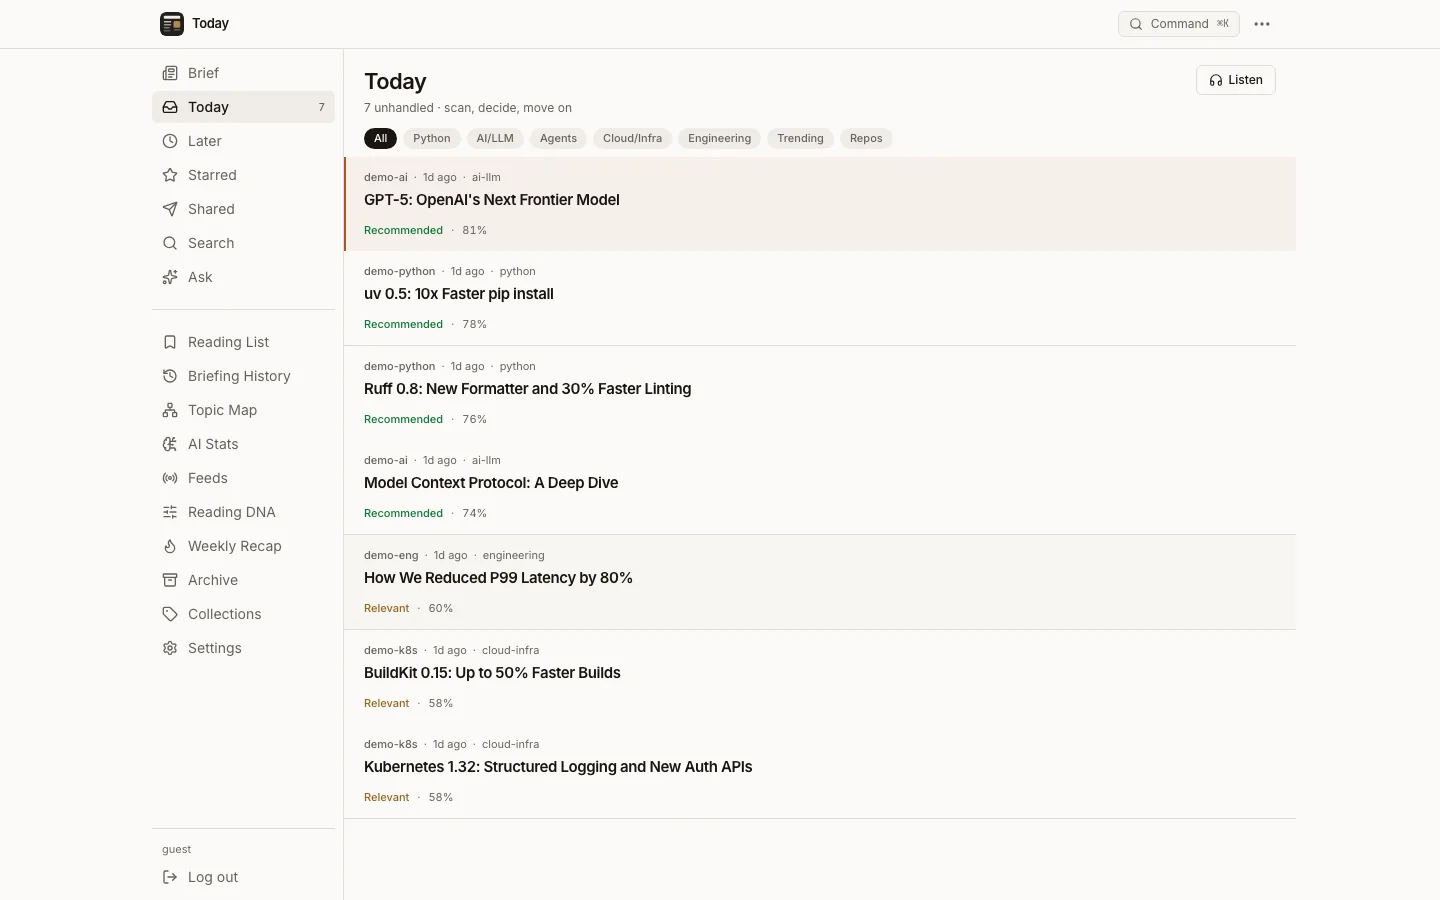
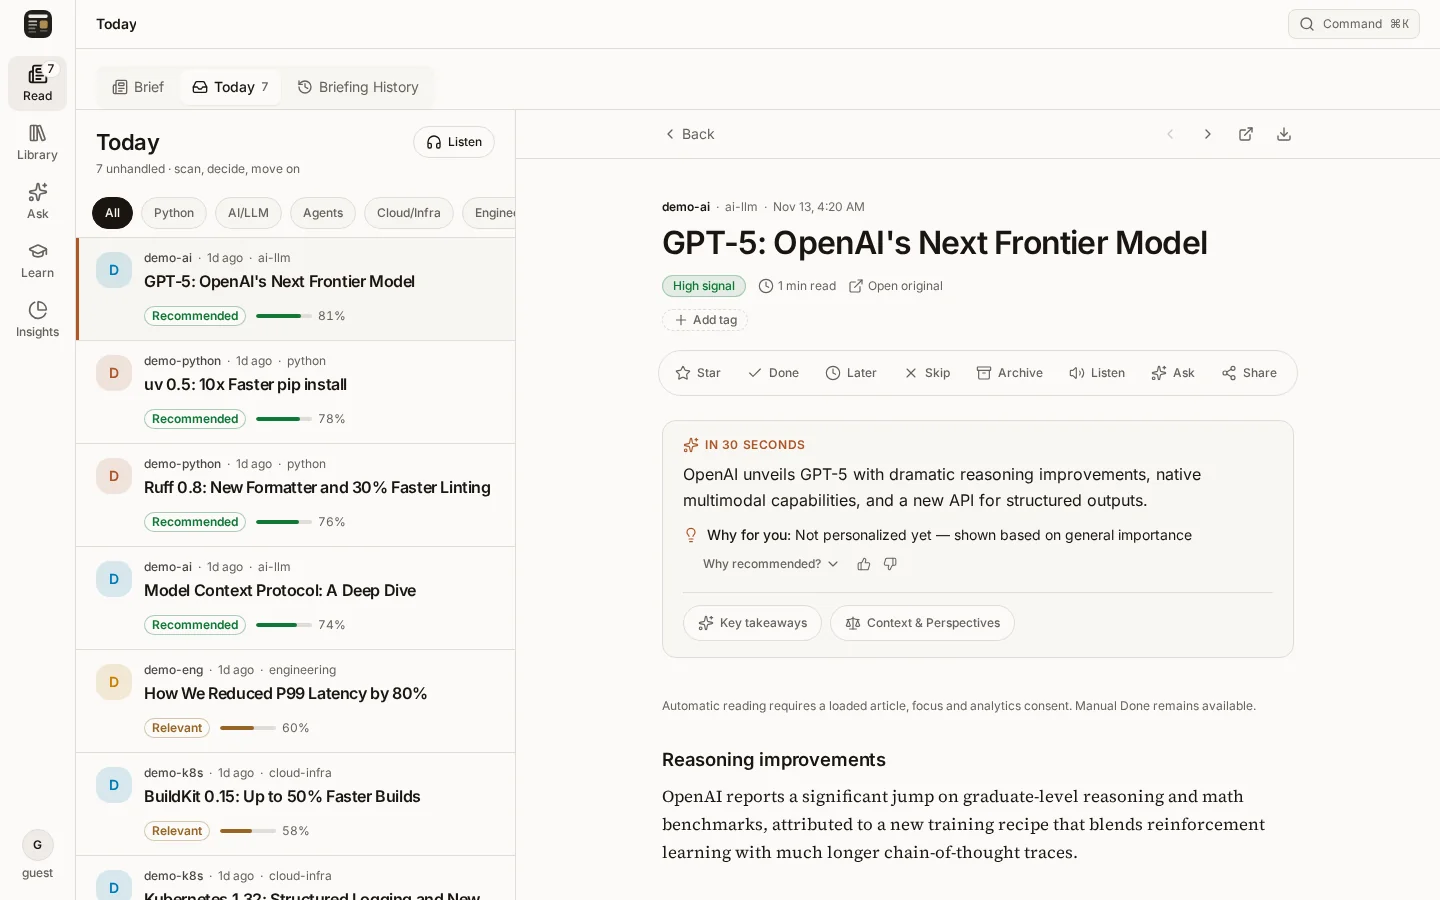
docs: refresh product screenshots (#1670)

diff --git a/scripts/capture-screenshots.spec.ts b/scripts/capture-screenshots.spec.ts
@@ -59,8 +59,10 @@ test('capture product screenshots', async ({ page }) => {
   // 1. Today feed — the primary triage view, used as the README hero shot.
   await page.goto('/today');
   await page.waitForLoadState('networkidle');
-  const firstArticleLink = page.locator('a[href^="/a/"]').first();
+  const firstArticleLink = page.locator('a[href^="/today?a="]').first();
   await expect(firstArticleLink).toBeVisible();
+  await firstArticleLink.click();
+  await expect(page.getByTestId('summary-card')).toBeVisible();
   await page.screenshot({ path: path.join(OUT_DIR, 'today-feed.png') });
 
   // 2. Article intelligence — open the seeded article with cached AI output. A
